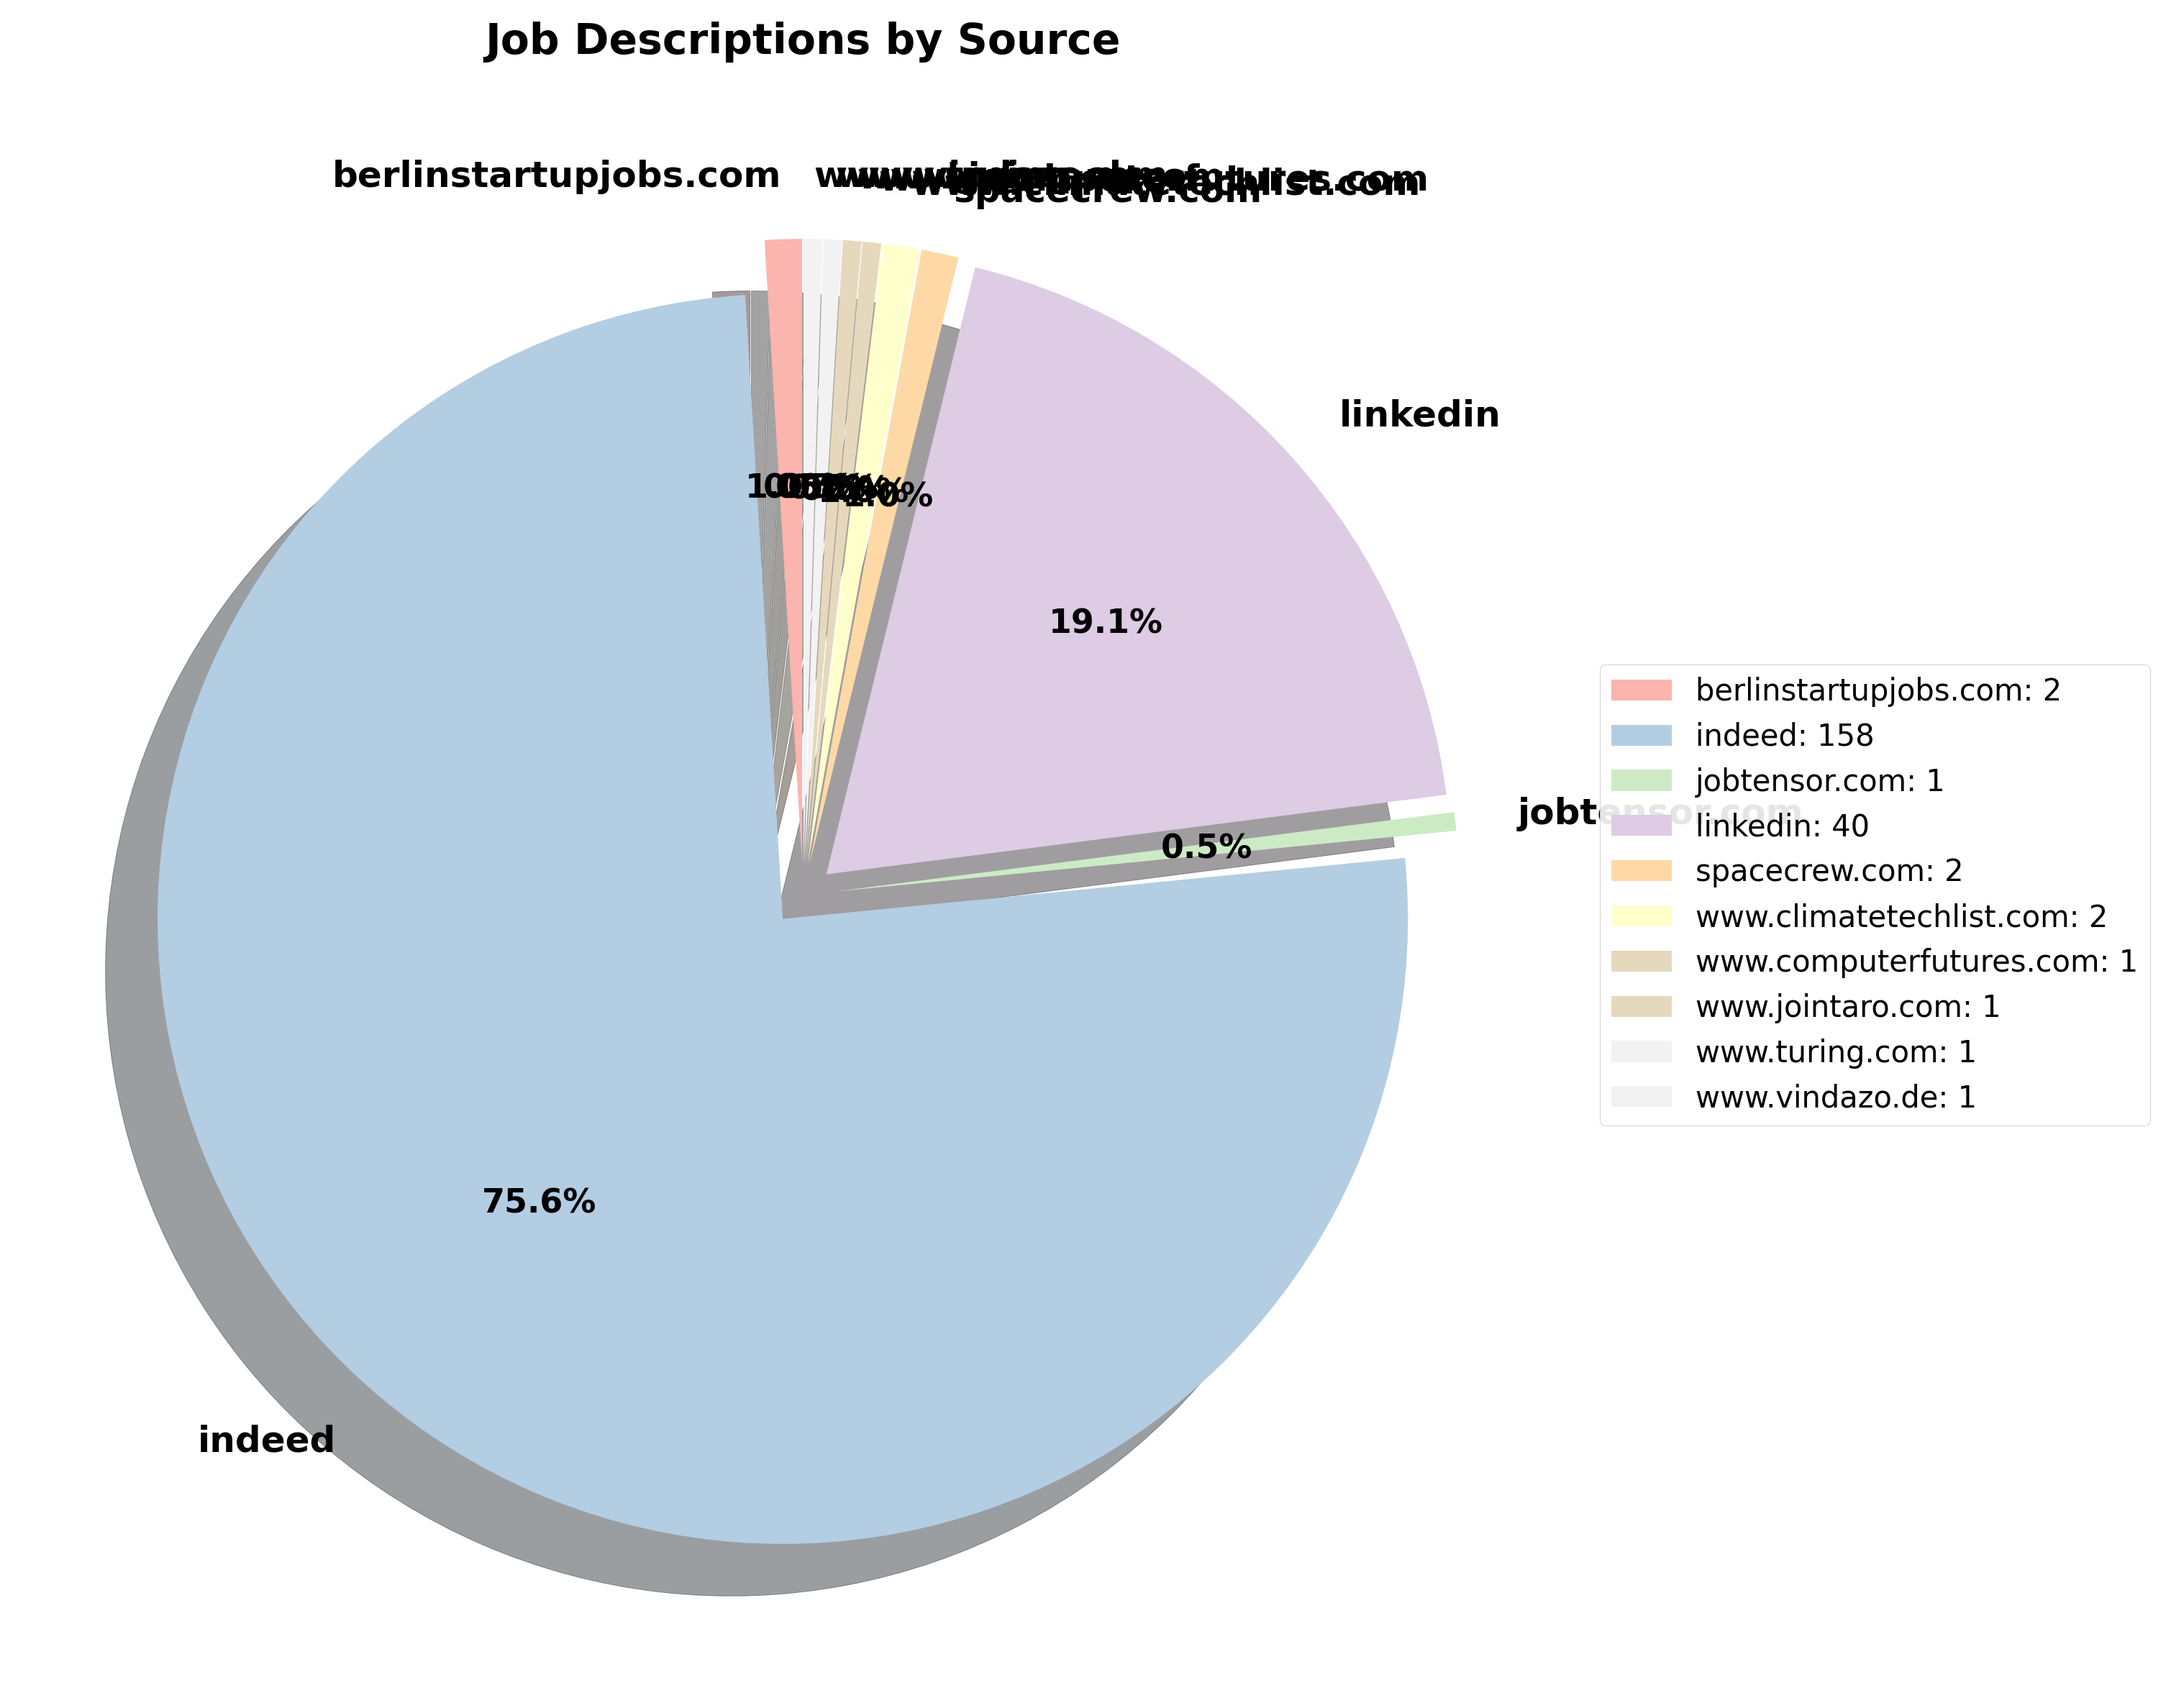
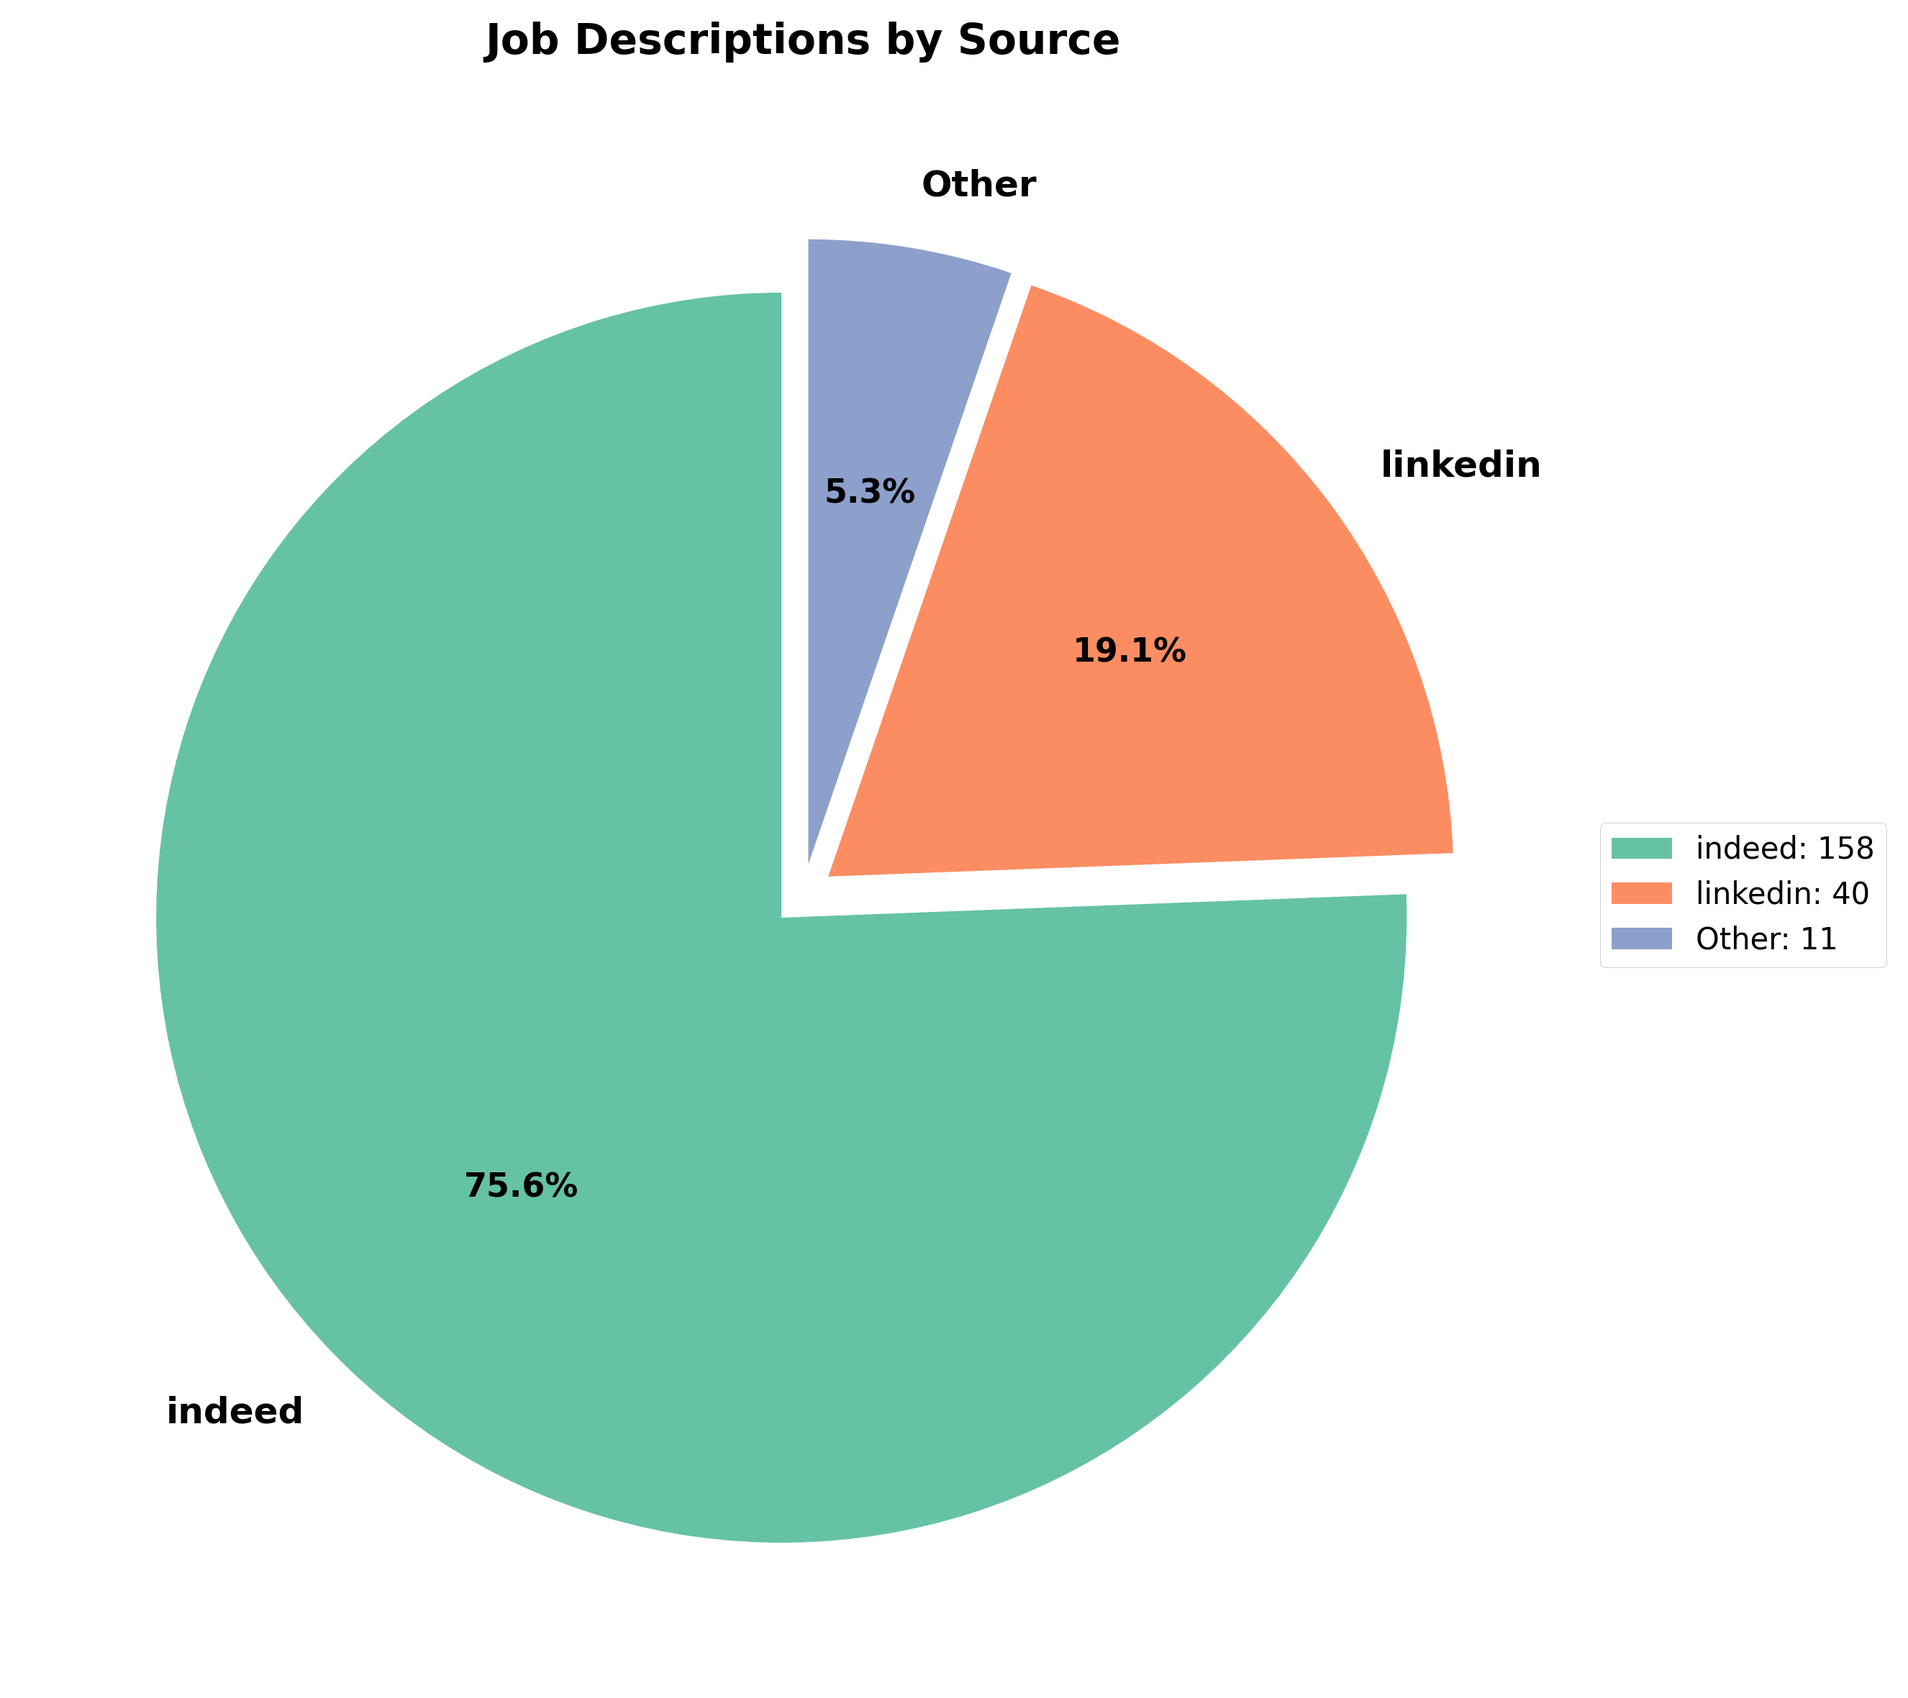
Clean up job description by source pie chart

diff --git a/visualisation/plot_by_source.py b/visualisation/plot_by_source.py
@@ -30,20 +30,29 @@ for json_file in data_dir.glob("*.json"):
         print(f"Error loading {json_file}: {e}")
 
 sources = [d['filename'].split('_')[0] for d in all_data]
+# Group sources other than linkedin and indeed into 'Other'
+sources = [s if s in ['linkedin', 'indeed'] else 'Other' for s in sources]
 source_counts = Counter(sources)
 output_dir = Path(__file__).parent
 
+# Prepare data for Pie Chart
 fig, ax = plt.subplots(figsize=(10, 8))
 source_names = list(source_counts.keys())
 source_values = list(source_counts.values())
-colors_source = plt.cm.Pastel1(np.linspace(0, 1, len(source_names)))
+
+# Sort by value for better layout
+sorted_indices = np.argsort(source_values)[::-1]
+source_names = [source_names[i] for i in sorted_indices]
+source_values = [source_values[i] for i in sorted_indices]
+
+colors_source = sns.color_palette("Set2")
 
 wedges, texts, autotexts = ax.pie(source_values,
                                      labels=source_names,
                                      autopct='%1.1f%%',
                                      startangle=90,
                                      colors=colors_source,
-                                     shadow=True,
+                                     shadow=False,
                                      explode=[0.05] * len(source_names),
                                      textprops={'fontsize': 11})
 
